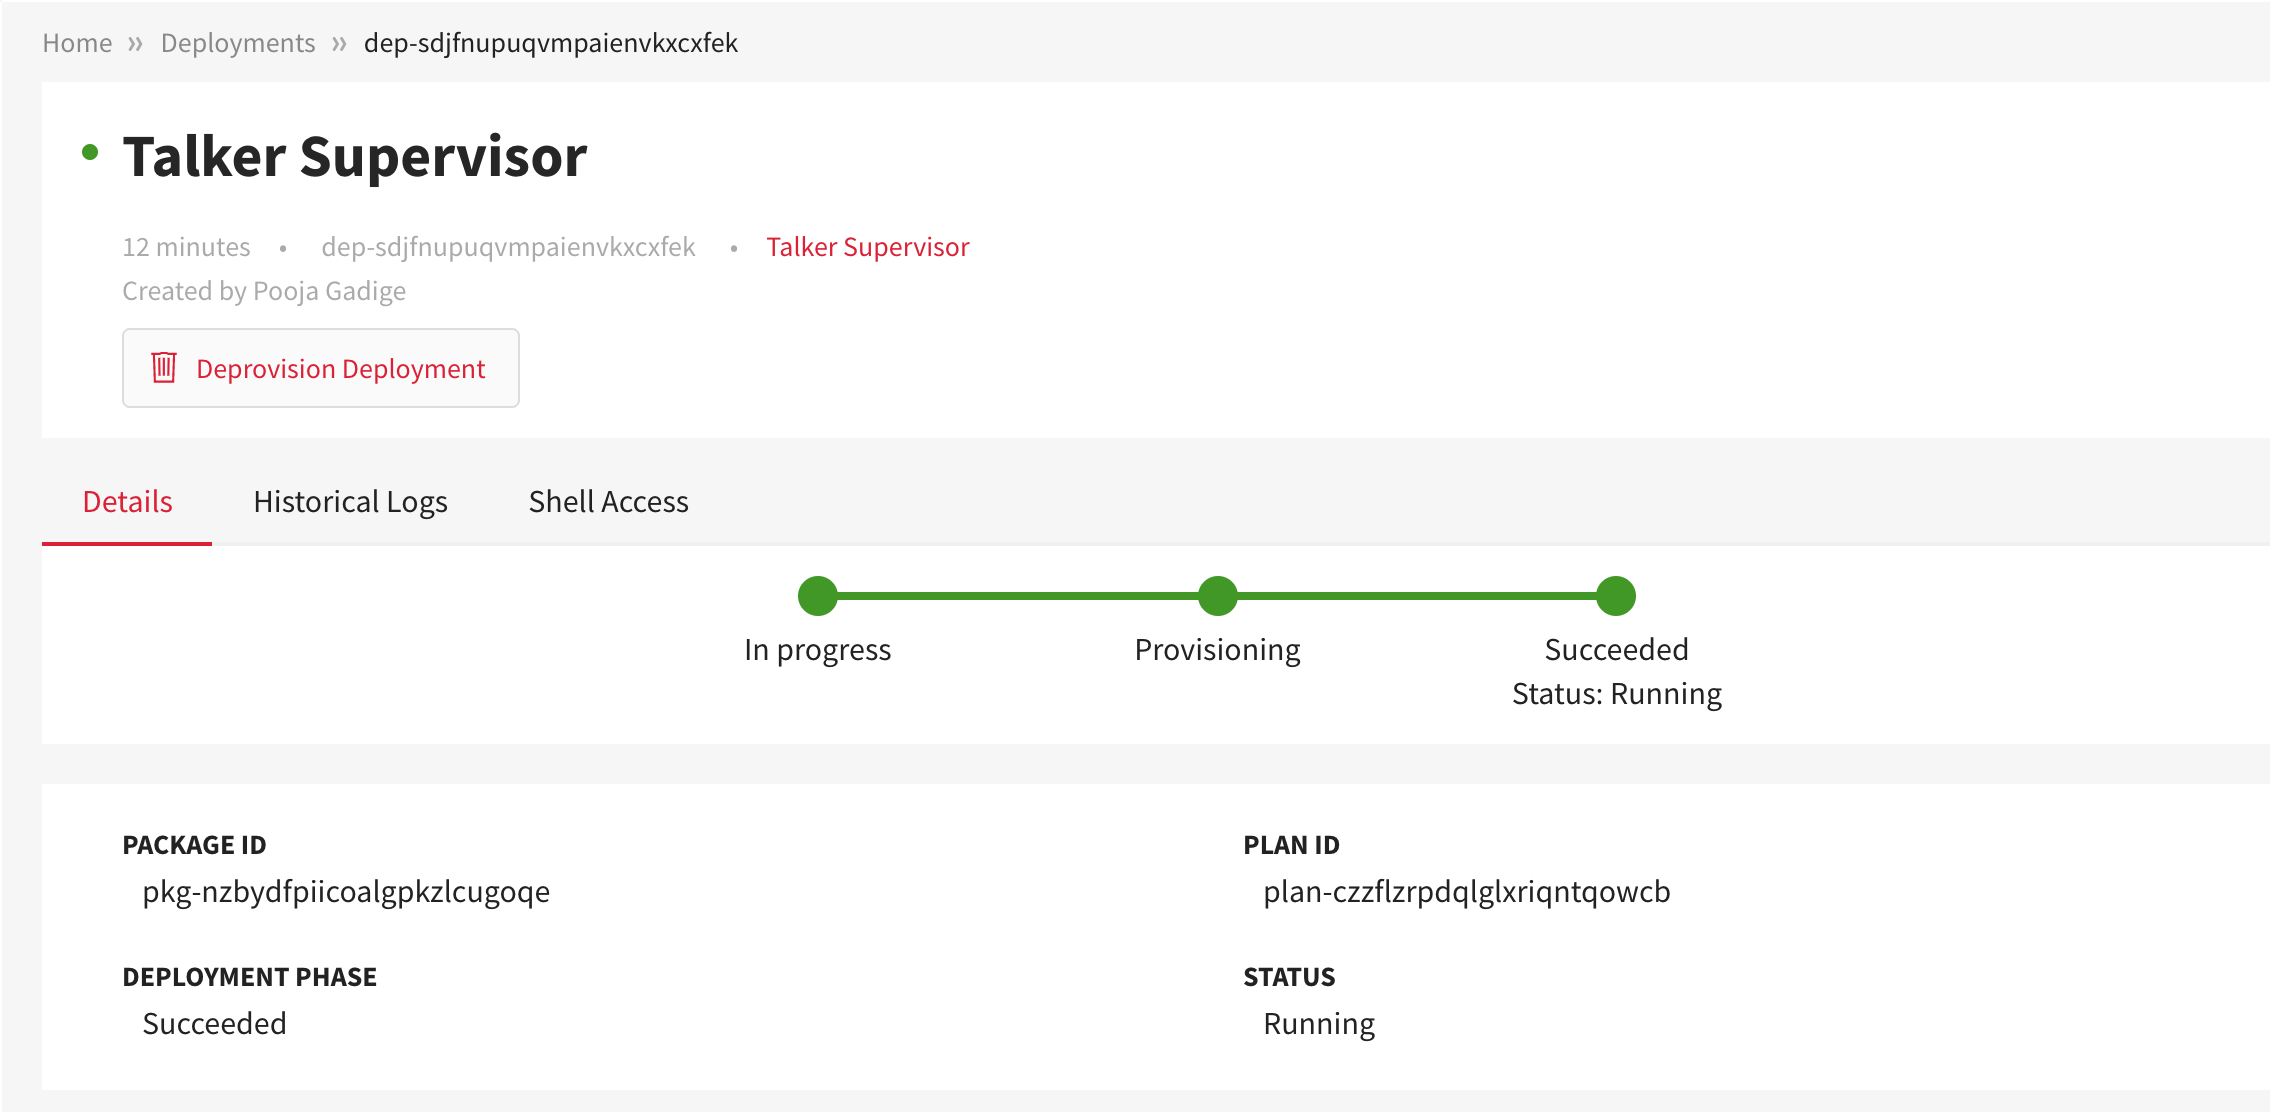
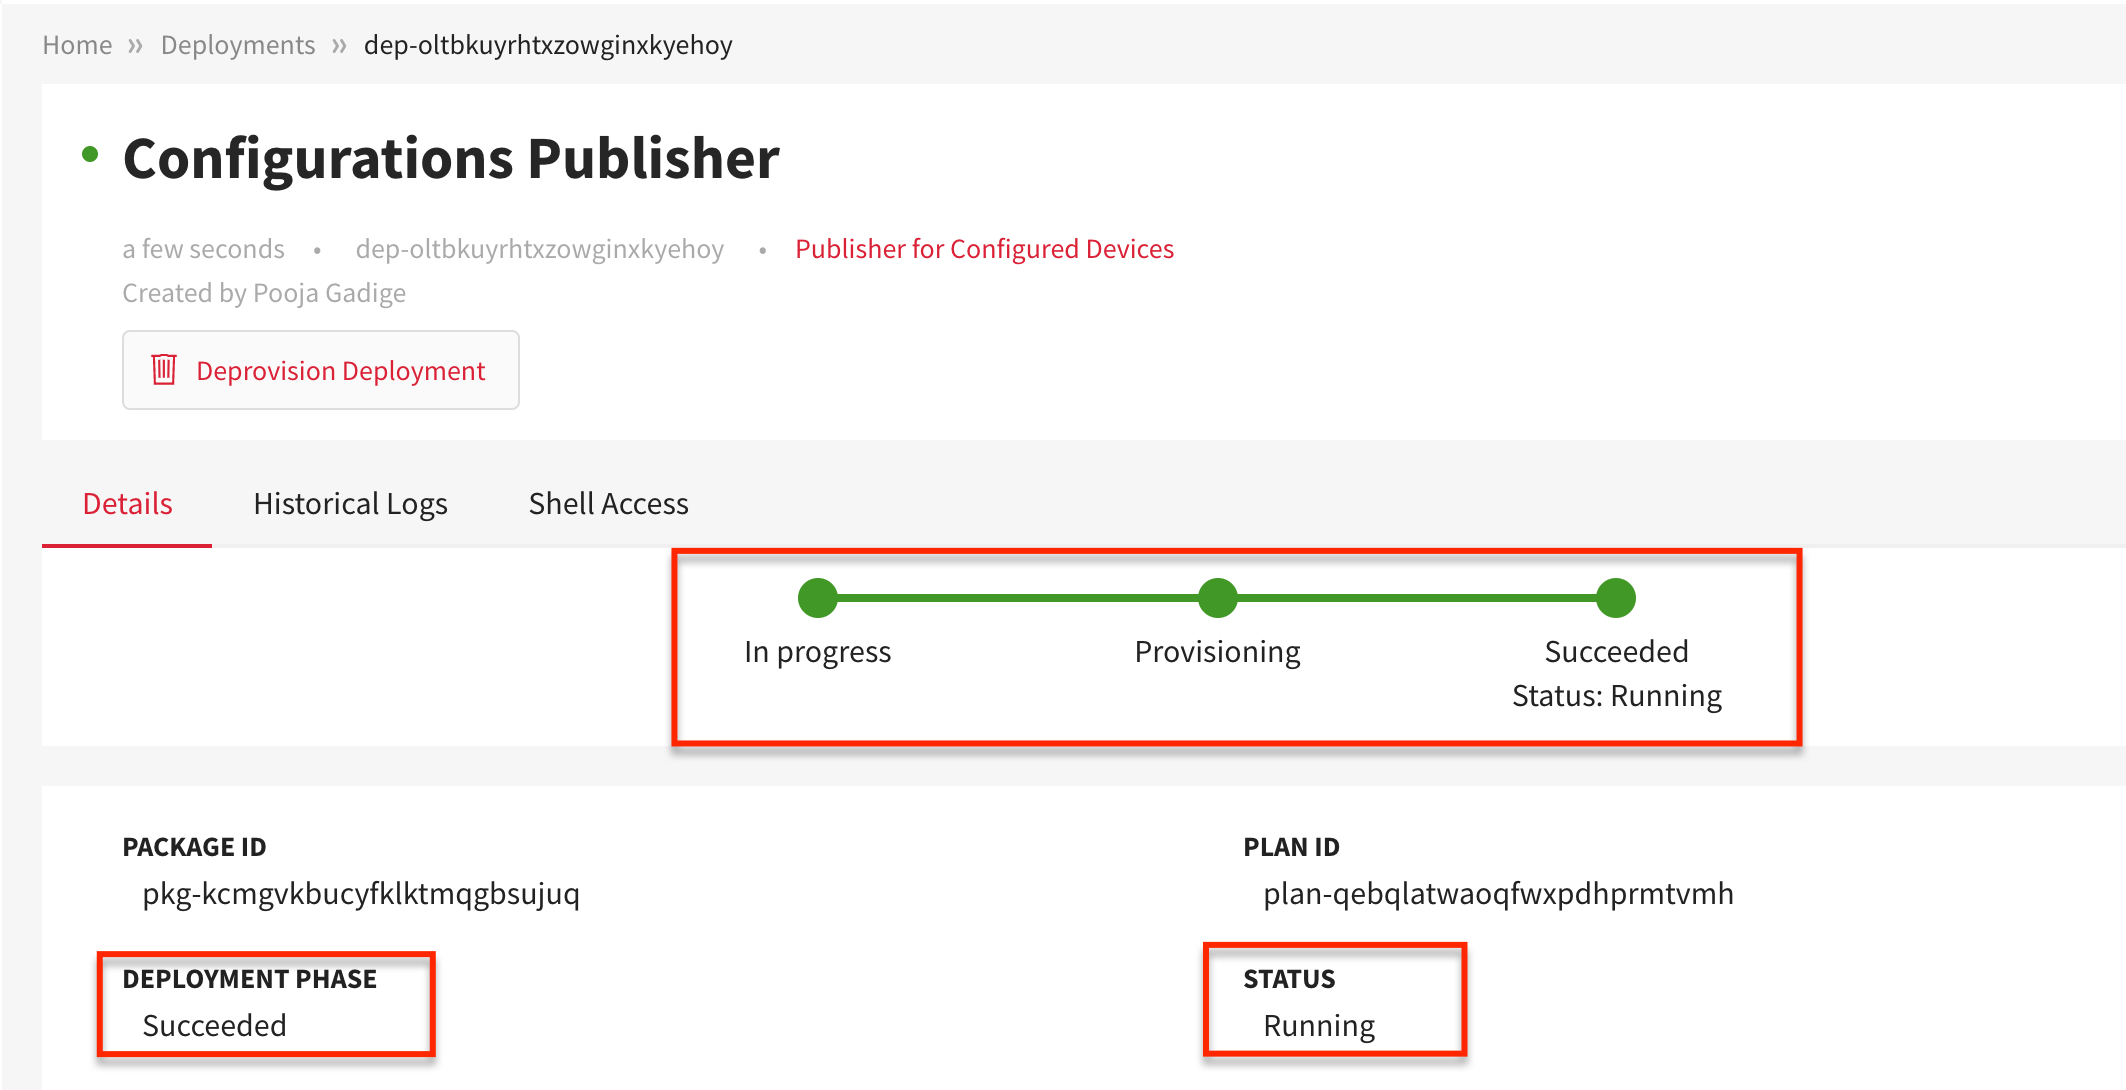
Better title, package name; add link to quick guide, update images

diff --git a/hugo/content/dev-tutorials/talker-supervisor.md b/hugo/content/dev-tutorials/talker-supervisor.md
@@ -1,12 +1,12 @@
 ---
-title: "Talker Supervisor"
+title: "Package Deployment with Configurations"
 description:
 type: dev-tutorials
 date: 2019-07-04T11:53:21+05:30
 pre: "h. "
 weight: 450
 ---
-The *Talker Supervisor* is a ROS package that will be deployed on a device, which has been configured based on a set of parameters.
+The *Publisher for Configured Devices* is a ROS package that will be deployed on a device. The device is configured based on a set of parameters like *name*, *location*, *velocity* etc.
 
 ## Learning objective
 The tutorial will show you how to apply configuration parameters to a device before deploying a rapyta.io package on it.
@@ -16,8 +16,9 @@ The tutorial will show you how to apply configuration parameters to a device bef
    1. You should have access to a device (computer and/or Raspberry PI 2 or 3) with an internet connection.
    2. Ensure that the [Google Chrome](https://www.google.com/chrome) browser is installed on the computer.
    3. Ensure that the [Robot Operating System (ROS Kinetic)](https://wiki.ros.org/kinetic/Installation) is installed on the device.
-2. You should be familiar with the configuration parameters concept and its corresponding quick starting guide.
-3. You should be familiar with the following tools:
+2. You should be familiar with the [configurations](/core-concepts/config-params/) concept.
+3. Read the guide on [how to apply configurations to devices](/getting-started/apply-config-params/).
+4. You should be familiar with the following tools:
    1. [Git](https://git-scm.com/doc)
    2. [UNIX/Linux command terminal](https://www.digitalocean.com/community/tutorials/an-introduction-to-the-linux-terminal)
 
@@ -35,21 +36,24 @@ The tutorial consists of the below steps:
 3. Add the device to rapyuta.io
 4. Apply configuration to the device
 5. Add a ROS package to rapyuta.io
-6. Deploy package on the device
+6. Deploy the package on the device
 7. Verify deployment logs
 
-## Defining configuration
-You will define the configuration ***robots*** as shown in the figure below by following the instructions:
+#### Defining configuration
+You will define the configuration ***robots*** by following the instructions:
 
 1. On the left navigation bar, click **CONFIGURATIONS**.
 2. Click **ADD NEW CONFIGURATION**.
-3. Provide a name say ***robots*** for the configuration in the **Configuration Name** box.
+3. Provide a name, say, ***robots*** for the configuration in the **Configuration Name** box.
 4. Click **CONFIRM**.
 5. Add a new file, ***name.yaml***, below the root node ***robots***.
-6. Define parameters in the ***name.yaml***, refer to the quick starting guide to learn how to define parameters.
+6. Define parameters in the ***name.yaml***.
+{{% notice info %}}
+Refer to the quick starting guide on [how to define parameters](/getting-started/apply-config-params/).
+{{% /notice %}}
 ![robots configuration](/images/tutorials/talker-supervisor/robots-configuration.png?classes=border,shadow&width=40pc)
 
-## Preparing device
+#### Preparing device
 The tutorial will use Raspberry PI as the device. Learn [how to prepare the device](/getting-started/prepare-raspberry-pi).
 
 If you are using the custom rapyuta.io image on the device, you need to execute the following command to update the ***io_tutorials*** repository at the root of your catkin workspace.
@@ -64,15 +68,29 @@ To build the package, run the below command at the root of your catkin workspace
 catkin build param_talker
 ```
 
-## Adding device to rapyuta.io
-While onboarding the device to rapyuta.io the environment variable **RIO_CONFIGS_DIR** is set locally on the device. It represents the location of the directory where all of the configurations that will be applied to the device are stored. The value of **RIO_CONFIGS_DIR** is set to **/opt/rapyuta/configs**
+#### Adding device to rapyuta.io
+When onboarding the device to rapyuta.io the environment variable **RIO_CONFIGS_DIR** is set locally on the device. It represents the location of the directory where all of the configurations that will be applied to the device are stored.
+{{% notice info %}}
+The value of **RIO_CONFIGS_DIR** is set to **/opt/rapyuta/configs**
+{{% /notice %}}
 ![configuration environment variable](/images/tutorials/talker-supervisor/configurations-on-device.png?classes=border,shadow&width=40pc)
 
 {{% notice info %}}
 **RIO_CONFIGS_DIR** is available to all the executables of a running deployment.
 {{% /notice %}}
 
-## Applying configuration to device
+#### Applying configuration to device
+You need to define labels for the device so as to apply configuration parameters to it. You will define the two labels:
+
+* fist_name: Sarah
+* last_name: Edwards
+
+![device labels](/images/tutorials/talker-supervisor/device-21-labels.png?classes=border,shadow&width=40pc)
+
+{{% notice info %}}
+You may have to define ***labels*** for a device if you want to apply a configuration to it. Learn [how to define labels](/getting-started/apply-config-params/) in the quick starting guide.
+{{% /notice %}}
+
 To apply an existing configuration to the device:
 
 1. On the left navigation bar, click **DEVICES**.
@@ -86,10 +104,6 @@ To apply an existing configuration to the device:
 You may apply more than one configuration to a single device.
 {{% /notice %}}
 
-{{% notice info %}}
-You may have to define labels for a device if you want to apply a configuration (that contains attribute and value nodes) to it. Learn how to define labels in the quick starting guide.
-{{% /notice %}}
-
 The robots configuration is stored in **RIO_CONFIGS_DIR** and its parameters file ***name.yaml*** is stored in the **robots** directory as shown in the figure below.
 ![robots configuration directory](/images/tutorials/talker-supervisor/content-rio-configs-dir.png?classes=border,shadow&width=40pc)
 
@@ -101,48 +115,49 @@ You can use **RIO_CONFIGS_DIR** in ROS launch files for loading configurations.
 You can remotely access **RIO_CONFIGS_DIR** by [SSH-ing into the device via rapyuta.io](/getting-started/how-to-webssh/)
 ![SSH access](/images/tutorials/talker-supervisor/SSH-into-device.png?classes=border,shadow&width=40pc)
 
-## Creating the package
-To create the *Talker Supervisor* package, follow the steps:
+#### Creating the package
+To create the *Publisher for Configured Devices* package, follow the steps:
 
 1. On the left navigation bar, click **CATALOG**.
 2. Click **ADD NEW PACKAGE**.
-3. Provide a name for the package say `Talker Supervisor` in the **Package Name** box.
+3. Provide a name for the package say `Publisher for Configured Devices` in the **Package Name** box.
 4. Make sure **Is singleton package** is ***not selected***.
 5. Ensure **Is a bindable package** is ***indeed selected***.
-6. In the **Description** box, provide a brief summary of the package.
+6. In the **Description** box, provide a brief summary of the package, say, `Demo package to illustrate configuration parameters concept`
 7. Click **NEXT**.
-8. In the **Component Name** box, enter a name for the component say `Talker`.
+8. In the **Component Name** box, enter a name for the component say `parameter_talker`.
 9. Select **Device** for **Component Runtime**.
 10. Ensure **Is ROS Component** is selected.
 11. In the **Executable Name** box, enter a name for the executable say `talker_executable`.
-12. Select **preinstalled** for **Executable Type**.
+12. Select **Default** for **Executable Type**.
 13. Enter the following command in the **Command to run in the docker docker container** box.
 ```
 roslaunch param_talker talker.launch
 ```
 14. Click **NEXT** > **CONFIRM PACKAGE CREATION**.
+![publisher for configured devices](/images/tutorials/talker-supervisor/pub-configured-devices.png?classes=border,shadow&width=40pc)
 
 ## Deploying the package
-To deploy the *Talker Supervisor* package, follow the steps:
+To deploy the *Publisher for Configured Devices* package, follow the steps:
 
 1. On the left navigation bar, click **CATALOG**.
-2. Select the **Talker Supervisor** package.
+2. Select the **Publisher for Configured Devices** package.
 3. Click **Deploy package**.
-4. Provide a name for the deployment you are creating say `Talker Supervisor Deployment` in the **Name of deployment** box.
-5. Since *Talker* has device runtime, you must select the device you want to deploy the component on. Click **Refresh the list of online devices** to retrieve an updated list of online devices.
+4. Provide a name for the deployment you are creating say `Configurations Publisher` in the **Name of deployment** box.
+5. Since *parameter_talker* has device runtime, you must select the device you want to deploy the component on. Click **Refresh the list of online devices** to retrieve an updated list of online devices.
 6. Select the device from the **Select device for deploying the component** drop-down list.
-7. For the **Talker** component, ensure that **ros_workspace** and **ros_distro** are selected.
+7. For the **parameter_talker** component, ensure that **ros_workspace** and **ros_distro** are selected.
 8. Click **CREATE DEPLOYMENT** > **Confirm**.
 
-You will be redirected to the newly created deployment's **Details** page. The **Talker Supervisor Deployment** is successfully running only when the green coloured bar moves to **Succeeded** and **Status:Running** point indicating that the **DEPLOYMENT PHASE** is **Succeeded** and the **STATUS** is **Running**.
+You will be redirected to the newly created deployment's **Details** page. The **Configurations Publisher** is successfully running only when the green coloured bar moves to **Succeeded** and **Status:Running** point indicating that the **DEPLOYMENT PHASE** is **Succeeded** and the **STATUS** is **Running**.
 
-![talker supervisor deployment](/images/tutorials/talker-supervisor/talker-supervisor-deployment.png?classes=border,shadow&width=40pc)
+![Configurations Publisher](/images/tutorials/talker-supervisor/talker-supervisor-deployment.png?classes=border,shadow&width=40pc)
 
 ## Verifying deployment logs
 You may verify the correctness of the tutorial by analysing the corresponding deployment logs by clicking on the **Historical Logs**.
 
 The historical logs will display an output as shown in the figure below.
-![Successful deployment logs](/images/tutorials/talker-supervisor/successful-logs.jpg?classes=border,shadow&width=60pc)
+![Successful deployment logs](/images/tutorials/talker-supervisor/successful-logs.png?classes=border,shadow&width=60pc)
 
 
 
